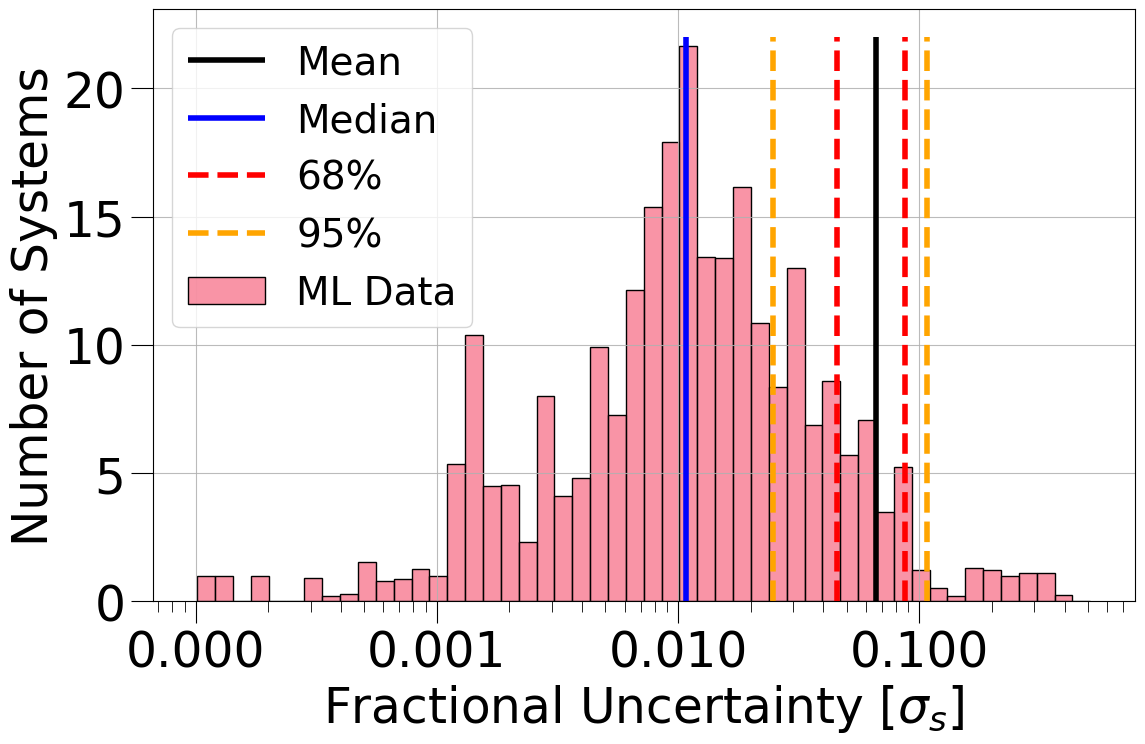
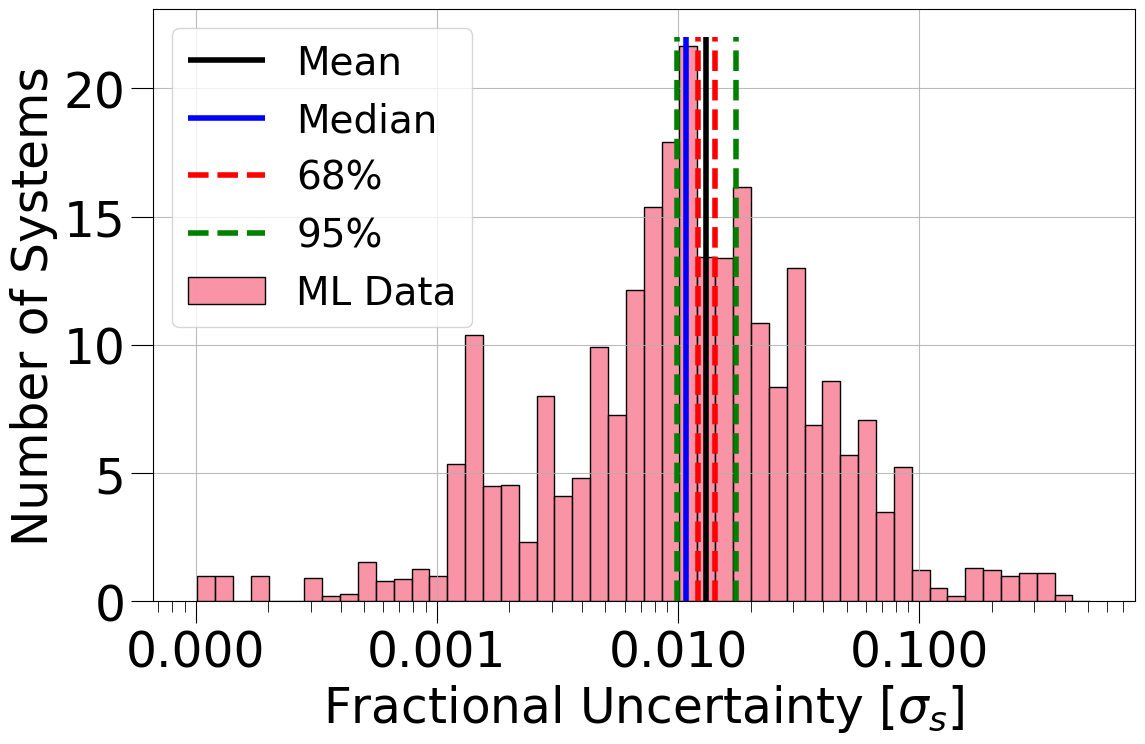
- Resolved issue with Figure 9's statistics and changed method of confidence intervals

Changed region(s): [[0.5808, 0.0309, 0.7336, 0.8038], [0.7642, 0.0618, 0.8253, 0.8038], [0.1528, 0.3091, 0.2445, 0.3401]]

diff --git a/Sep_plot.py b/Sep_plot.py
@@ -944,7 +944,7 @@ class Sep_plot(Sep_gen):
             for i in range(self.numdiv):
                 obj = Sep_gen()
                 # Step, end, inclincation, which, estep_iter, omega, incl, estep, class
-                if gamma_bool:
+                if gamma_bool: # Used only when we create marginalizations for all 3
                     param.append((0.002, 20, True, which, esteplist[i], self.wnum, self.inum, estep, repeat(obj)))
             if inclination and not gamma_bool:
                 eccent = np.linspace(0,0.99,12)
